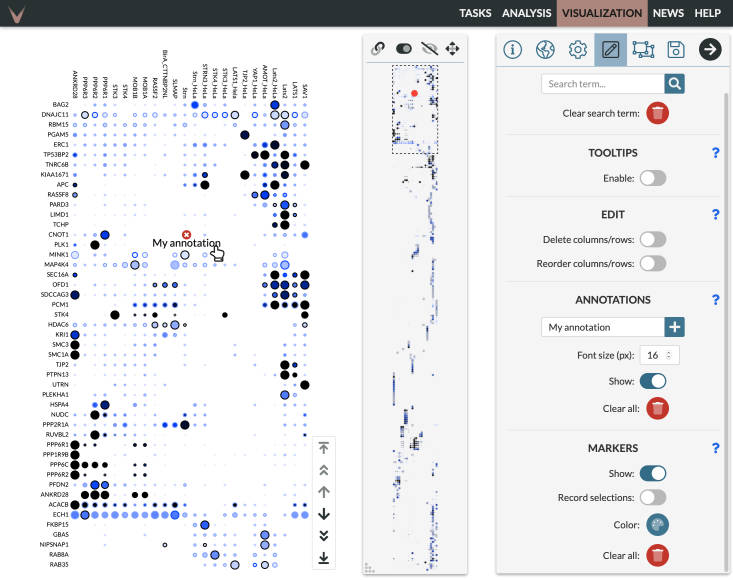
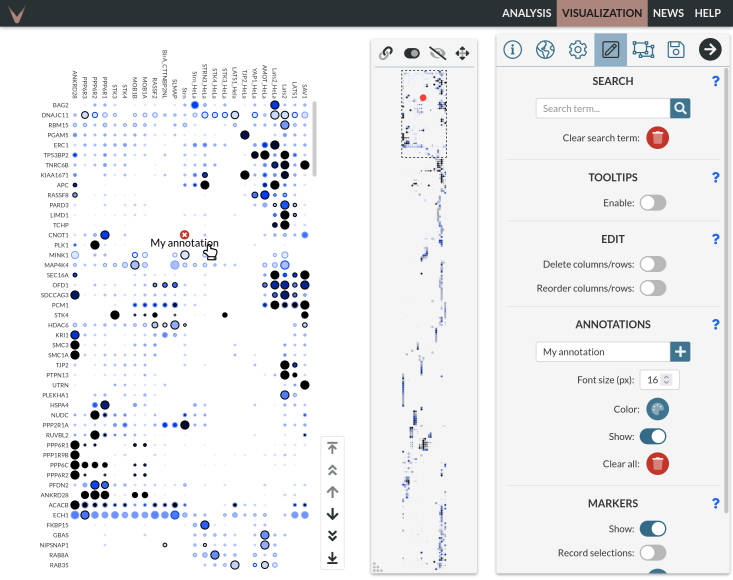
Add option for recoluring annotations

diff --git a/src/visualization/display/side-panel/panels/markup/heatmap/annotations/annotation.js b/src/visualization/display/side-panel/panels/markup/heatmap/annotations/annotation.js
@@ -3,6 +3,7 @@ import React from 'react';
 import { faTrash } from '@fortawesome/pro-duotone-svg-icons';
 import { faPlus } from '@fortawesome/pro-solid-svg-icons';
 
+import ColorPicker from '../../../../../../../components/color-picker/color-picker-container';
 import IconButton from '../../../../../../../components/buttons/icon/button';
 import Input from '../../../../../../../components/input/text/input-text-container';
 import InputWithButton from '../../../../../../../components/input/with-button/input-with-button-container';
@@ -10,9 +11,11 @@ import Section from '../../../section/section';
 import Switch from '../../../../../../../components/input/switch/switch-container';
 
 const Annotation = ({
+  color,
   fontSize,
   handleAddAnnotation,
   handleClearAll,
+  handleColorChange,
   handleFontSizeChange,
   handleToggleAnnotations,
   show,
@@ -42,6 +45,14 @@ const Annotation = ({
         type="number"
         value={fontSize}
       />
+      <span className="panel-markup__label">
+        Color:
+      </span>
+      <ColorPicker
+        color={color}
+        onChange={handleColorChange}
+        placement={['right', 'center']}
+      />
       <Switch
         checked={show}
         id="showAnnotations"
@@ -62,9 +73,11 @@ const Annotation = ({
 );
 
 Annotation.propTypes = {
+  color: PropTypes.string.isRequired,
   fontSize: PropTypes.number.isRequired,
   handleAddAnnotation: PropTypes.func.isRequired,
   handleClearAll: PropTypes.func.isRequired,
+  handleColorChange: PropTypes.func.isRequired,
   handleFontSizeChange: PropTypes.func.isRequired,
   handleToggleAnnotations: PropTypes.func.isRequired,
   show: PropTypes.bool.isRequired,

diff --git a/src/visualization/display/side-panel/panels/markup/heatmap/annotations/annotation-container.js b/src/visualization/display/side-panel/panels/markup/heatmap/annotations/annotation-container.js
@@ -16,7 +16,7 @@ const AnnotationContainer = () => {
   const annotations = useSelector((state) => selectData(state, 'annotations'));
   const addAnnotation = useAnnotation();
 
-  const { fontSize, show } = annotations;
+  const { color, fontSize, show } = annotations;
 
   const handleAddAnnotation = (e, elementID, value) => {
     addAnnotation(value);
@@ -24,6 +24,10 @@ const AnnotationContainer = () => {
 
   const handleClearAll = () => {
     dispatch(clearAllAnnotations());
+  };
+
+  const handleColorChange = (newColor) => {
+    dispatch(changeAnnotationSetting('color', newColor));
   };
 
   const handleFontSizeChange = (e, id, value) => {
@@ -36,9 +40,11 @@ const AnnotationContainer = () => {
 
   return (
     <Annotation
+      color={color}
       fontSize={fontSize}
       handleAddAnnotation={handleAddAnnotation}
       handleClearAll={handleClearAll}
+      handleColorChange={handleColorChange}
       handleFontSizeChange={handleFontSizeChange}
       handleToggleAnnotations={handleToggleAnnotations}
       show={show}

diff --git a/src/help/visualization/heatmap/heatmap.js b/src/help/visualization/heatmap/heatmap.js
@@ -449,8 +449,8 @@ const Heatmap = () => (
       {' '}
       area. Type in the annotation
       and it will be added to the center of the image&apos;s visible area. You can then click and drag the
-      annotation to change its position. Annotations will appear as red dots on the minimap and can be
-      deleted individually by clicking on the
+      annotation to change its position. Annotations will appear as red dots on the minimap. The color of the dots
+      be adjusted from the panel. Annotations can be deleted individually by clicking on the
       {' '}
       <FontAwesomeIcon className="help__inner-icon_red" icon={faTimesCircle} />
       {' '}

diff --git a/src/visualization/display/side-panel/panels/minimap/image/annotations/annotation.js b/src/visualization/display/side-panel/panels/minimap/image/annotations/annotation.js
@@ -4,6 +4,7 @@ import React from 'react';
 import './annotation.css';
 
 const Annotation = ({
+  color,
   position,
   text,
 }) => (
@@ -12,6 +13,7 @@ const Annotation = ({
     data-tooltip={text}
     data-tooltip-position="top"
     style={{
+      backgroundColor: color,
       left: `calc(${position.x * 100}% - 5px)`,
       top: `calc(${position.y * 100}% - 5px)`,
     }}
@@ -19,6 +21,7 @@ const Annotation = ({
 );
 
 Annotation.propTypes = {
+  color: PropTypes.string.isRequired,
   position: PropTypes.shape({
     x: PropTypes.number,
     y: PropTypes.number,

diff --git a/src/visualization/display/side-panel/panels/minimap/image/annotations/annotations.js b/src/visualization/display/side-panel/panels/minimap/image/annotations/annotations.js
@@ -12,6 +12,7 @@ const Annotations = ({
         ? (
           Object.entries(annotations.list).map(([id, annotation]) => (
             <Annotation
+              color={annotations.color}
               position={annotation.position}
               key={id}
               text={annotation.text}
